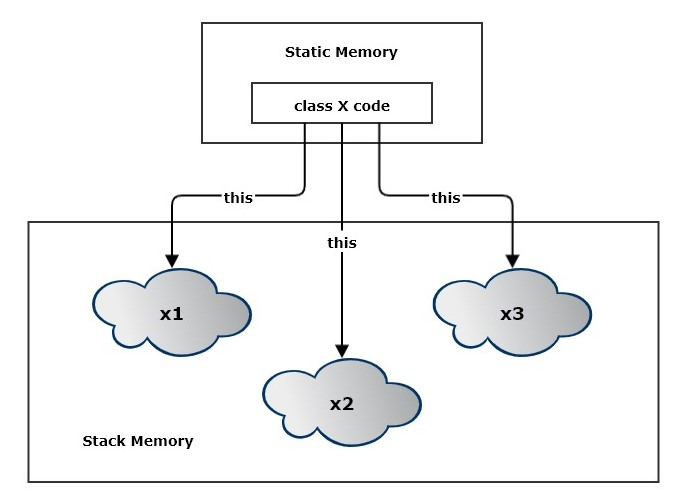
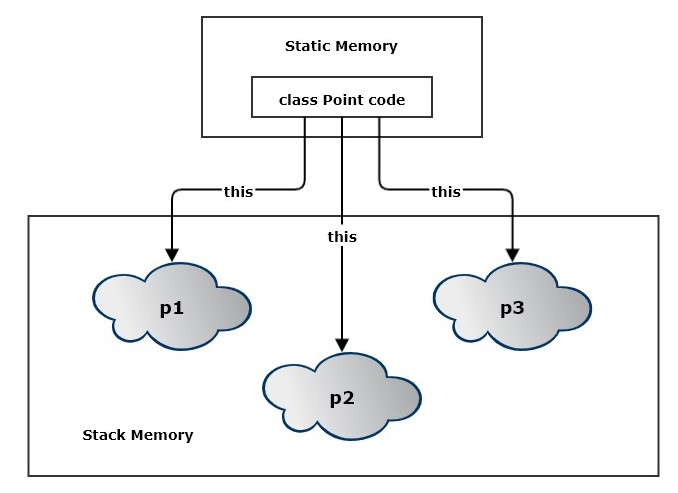
added content to CppStory_Models

diff --git a/CppStory_Models.html b/CppStory_Models.html
@@ -73,7 +73,7 @@
   <header>
     <hgroup id="pagetitle">
       <h1 id="title">Chapter 1 - C++ Models</h1>
-      <h3 id="subtitle">Compilation, exectution, memory storage, classes, templates</h3>
+      <h3 id="subtitle">Structure, compilation, exectution, memory storage, classes, templates</h3>
     </hgroup>
   </header>
 
@@ -107,6 +107,58 @@
 
   <hr class="spread" />
   <indent-blocks class="bb-55">
+    <t-b class="defnBorder">
+      data model, execution model, 
+    </t-b>
+    <a id="struct"></a>
+    <h3>Code Structure:</h3>
+    <indent-blocks>
+      <t-b>
+        <details>
+          <summary class="labelStyle lightItem">Code Structure Details</summary>
+          <t->
+            <defn-outerBlock>
+            <photosizer-block src="Pictures/CppModel_CodeFiles.JPG" width="700" class="photoSizerBlock right" style="margin-top:0;">
+              <span style="
+                display: inline-block;
+                font-weight: bold;
+                font-family: 'Comic Sans MS, Tahoma';
+                background-color: #ddd;
+                width: 100%;
+                padding: 5px 0px;
+              ">
+                Figure 1. C++ File Inclusion Model
+              </span>
+            </photosizer-block>
+            <photosizer-block src="Pictures/CppModel_CodePkgs.JPG" width="400" class="photoSizerBlock right" style="margin-top:0;">
+              <span style="
+                display: inline-block;
+                font-weight: bold;
+                font-family: 'Comic Sans MS, Tahoma';
+                background-color: #ddd;
+                width: 100%;
+                padding: 5px 0px;
+              ">
+                Figure 1. Package Diagram
+              </span>
+            </photosizer-block>
+            <photosizer-block src="Pictures/CppModel_CodeClasses.JPG" width="400" class="photoSizerBlock right" style="margin-top:0;">
+              <span style="
+                display: inline-block;
+                font-weight: bold;
+                font-family: 'Comic Sans MS, Tahoma';
+                background-color: #ddd;
+                width: 100%;
+                padding: 5px 0px;
+              ">
+                Figure 1. C++ Class Diagram
+              </span>
+            </photosizer-block>
+            </defn-outerBlock>
+          </t->
+        </details>
+      </t-b>
+    </indent-blocks>
     <a id="compil"></a>
     <h3>Compilation Model</h3>
     <indent-blocks>
@@ -280,7 +332,7 @@
           </t-b>
           <t-b>
             Each class has a set of methods - functions associated with that specific class - providing
-            operations on its allocated data when invoked. Each has code that is stored
+            operations on its allocated data when invoked. Each class has code that is stored
             in static memory, and potentially many instances holding data usually stored in the stackframe of the function
             where it is declared.
           </t-b>
@@ -289,9 +341,9 @@
             four coordinates: x, y, z, t.
           </t-b>
           <defn-code style="font-size:0.9rem; padding-top:0px;">
-  class X {
+  class Point {
   public:
-    X(const std::string& name = "none", size_t N = 3);
+    Point(const std::string& name = "none");
     std::string& name();
     double& operator[](size_t i);
     double operator[](size_t i) const;
@@ -302,8 +354,8 @@
   };
           </defn-code>
           <t-b>
-            When an instance method is invoked, <c-s>x.fun(param); x&epsilon;X</c-s>, the address of <c-s>x</c-s> is sent to the
-            code for class <c-s>X</c-s> to use if <c-s>fun</c-s> modifies <c-s>x</c-s>&apos;s data.  That address is identified
+            When an instance method is invoked, <c-s>p1.name(param); p1&epsilon;Point</c-s>, the address of <c-s>p1</c-s> is sent to the
+            code for class <c-s>Point</c-s> to use when <c-s>Point::name</c-s> modifies <c-s>p1</c-s>&apos;s data.  That address is identified
             by the reserved word &quot;<c-s>this</c-s>&quot;.  You may occasionally see references to <c-s>this</c-s> in
             methods of the class.  Most use is implicit, but occasionally it must be used explicitly, as in
             assignment operators that return <c-s>*this</c-s>.
@@ -327,19 +379,45 @@
           </div>-->
           <t-b>
             Templates generate functions and classes when an application instantiates them with
-            specific template parameters. The function template shown in the middle panel generates
-            a max function for each set of types, <c-s>T1</c-s> and <c-s>T2</c-s> specified by using
-            code. The using code instantiates it with four sets of parameter types, so the template
-            generates four functions, one for each set.
+            specific template parameters. The class template shown below generates
+            a point class for each type, <c-s>T</c-s> specified by using
+            code. The using code instantiates it with two parameter types, <c-s>int</c-s> and <c-s>double</c-s>, 
+            so the template generates two classes, one for each type.
+          </t-b>
+          <t-b style="margin-bottom:0px;">
+            The example models a point in some space, so it might have
+            three coordinates: x, y, z, e.g., coordinates_[0], coordinates_[1], ...  Template parameterization
+            allows the designer to structure coordinates to fit an application. If the point described a location
+            in a flowing fluid, the coordiates might be the location and flow rate components for each axis.
+            <indent-block class="pad10">
+              <c-s>T --> std::pair&lt;double, double&gt;</c-s>
+            </indent-block>
+            So, coordinates_ would have size 3 with entries for <c-s>{ x, flow_x }</c-s>, 
+            <c-s>{ y, flow_y }</c-s>, <c-s>{ z, flow_z }</c-s>
+          </t-b>
+          <defn-code style="font-size:0.9rem; padding-top:0px;">
+  template&lt;typename T&gt;
+  class Point {
+  public:
+    Point(const std::string& name = "none");
+    std::string& name();
+    T& operator[](size_t i);
+    T operator[](size_t i) const;
+    size_t size() const;
+  private:
+    std::string name_;
+    std::vector&lt;T&gt; coordinates_;
+  };
+          </defn-code>
           </t-b>
           <t-b>
             Should the using code instantiate for additional
-            sets of parameters, that would generate another function for each set.
+            parameter types, that would generate another class for each one.
             Fortunately, that is done by the compiler.  Developers only need to write one template
-            function and perhaps one or two overloads for special cases, as done below.
+            class and perhaps one or two special cases (specialization is discussed in Chapter 7).
           </t-b>
           <defn-outerBlock>
-            <photosizer-block src="Pictures/TemplateModel.jpg" width="400" class="photoSizerBlock" style="margin-top:0;">
+            <photosizer-block src="Pictures/TemplateLayout.jpg" width="600" class="photoSizerBlock" style="margin-top:0;">
               <span style="
               display: inline-block;
               font-weight: bold;
@@ -351,6 +429,23 @@
                 Figure 3. Template Code Generation
               </span>
             </photosizer-block>
+            <photosizer-block src="Pictures/TemplateModel.jpg" width="300" class="photoSizerBlock" style="margin-top:0;">
+              <span style="
+              display: inline-block;
+              font-weight: bold;
+              font-family: 'Comic Sans MS, Tahoma';
+              background-color: #ddd;
+              width: 100%;
+              padding: 5px 0px;
+            ">
+                Figure 4. Specializing Generic Template
+              </span>
+            </photosizer-block>
+          </defn-outerBlock>
+          <t-b>
+
+          </t-b>
+          <defn-outerBlock>
             <defn-block>
               <defn-head>Function Template Code</defn-head>
               <defn-code>
